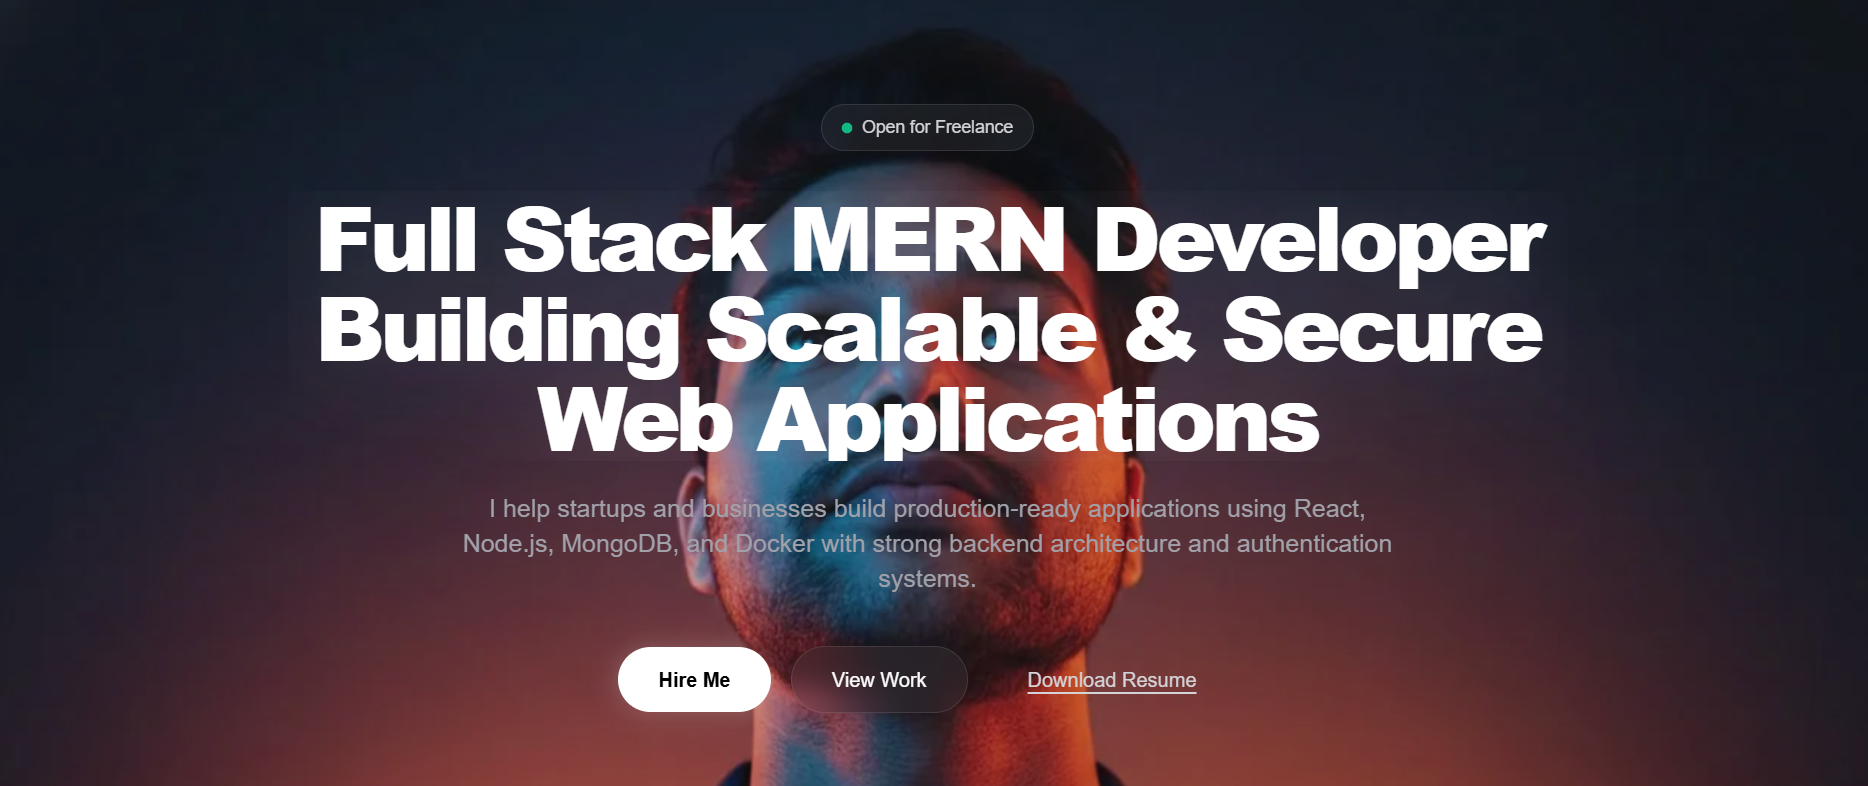
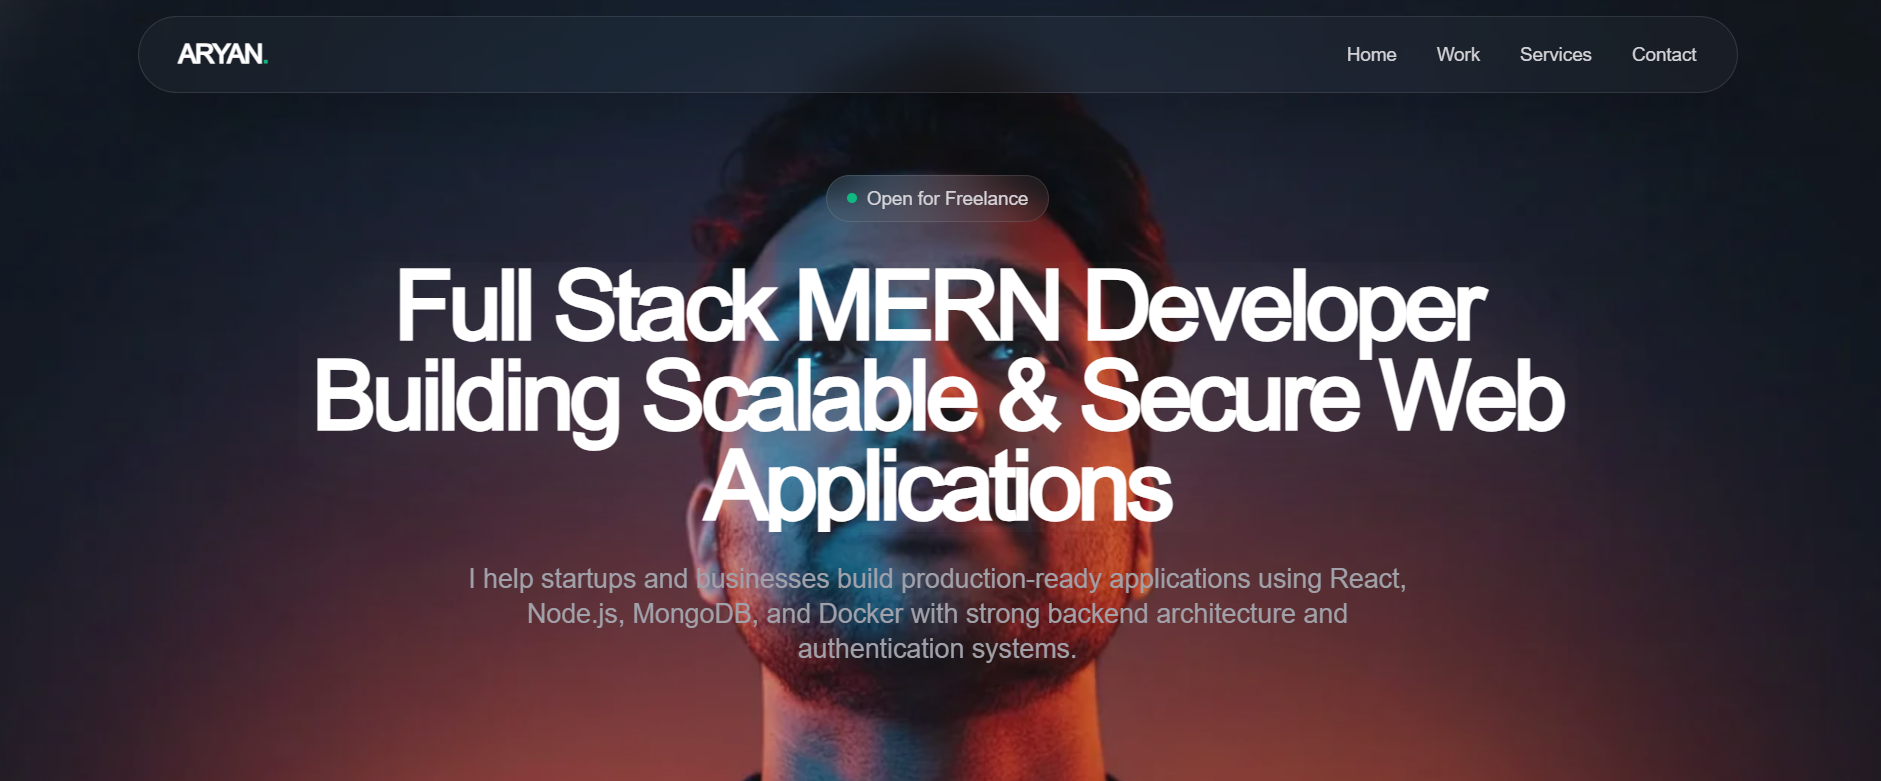
fix issues for deployment

diff --git a/src/components/Navbar.tsx b/src/components/Navbar.tsx
@@ -1,0 +1,42 @@
+"use client";
+
+import { motion } from "framer-motion";
+
+export default function Navbar() {
+    return (
+        <motion.nav
+            initial={{ y: -100, opacity: 0 }}
+            animate={{ y: 0, opacity: 1 }}
+            transition={{ duration: 0.8, ease: [0.16, 1, 0.3, 1] }}
+            className="fixed top-0 left-0 w-full z-50 px-6 py-6"
+        >
+            <div className="max-w-7xl mx-auto flex items-center justify-between bg-white/[0.03] backdrop-blur-lg border border-white/10 px-8 py-4 rounded-full shadow-2xl">
+                <div className="text-white font-bold text-xl tracking-tighter">
+                    ARYAN<span className="text-emerald-500">.</span>
+                </div>
+
+                <div className="hidden md:flex items-center gap-8 text-sm font-medium text-zinc-300">
+                    <button onClick={() => window.scrollTo({ top: 0, behavior: "smooth" })} className="hover:text-white transition-colors">
+                        Home
+                    </button>
+                    <button onClick={() => document.getElementById('work-section')?.scrollIntoView({ behavior: 'smooth' })} className="hover:text-white transition-colors">
+                        Work
+                    </button>
+                    <button onClick={() => document.getElementById('services-section')?.scrollIntoView({ behavior: 'smooth' })} className="hover:text-white transition-colors">
+                        Services
+                    </button>
+                    <button onClick={() => document.getElementById('contact-section')?.scrollIntoView({ behavior: 'smooth' })} className="hover:text-emerald-400 transition-colors">
+                        Contact
+                    </button>
+                </div>
+
+                <button
+                    onClick={() => document.getElementById('contact-section')?.scrollIntoView({ behavior: 'smooth' })}
+                    className="md:hidden px-5 py-2.5 rounded-full bg-white/10 text-white font-medium text-sm backdrop-blur-md border border-white/10 hover:bg-white/20 transition-colors"
+                >
+                    Let's Talk
+                </button>
+            </div>
+        </motion.nav>
+    );
+}

diff --git a/src/components/Overlay.tsx b/src/components/Overlay.tsx
@@ -67,22 +67,7 @@ export default function Overlay() {
                         I help startups and businesses build production-ready applications using React, Node.js, MongoDB, and Docker with strong backend architecture and authentication systems.
                     </motion.p>
 
-                    <motion.div
-                        initial={{ opacity: 0, y: 20 }}
-                        animate={{ opacity: 1, y: 0 }}
-                        transition={{ duration: 1, delay: 0.8 }}
-                        className="flex flex-wrap items-center justify-center gap-4 mt-10"
-                    >
-                        <button className="px-8 py-3.5 rounded-full bg-white text-black font-semibold hover:bg-zinc-200 transition-colors shadow-[0_0_20px_rgba(255,255,255,0.2)] hover:scale-105 active:scale-95 duration-200">
-                            Hire Me
-                        </button>
-                        <button className="px-8 py-3.5 rounded-full bg-white/5 text-white font-medium hover:bg-white/10 backdrop-blur-md border border-white/10 transition-colors hover:scale-105 active:scale-95 duration-200">
-                            View Work
-                        </button>
-                        <button className="px-8 py-3.5 rounded-full bg-transparent text-zinc-300 font-medium hover:text-white underline underline-offset-4 transition-colors">
-                            Download Resume
-                        </button>
-                    </motion.div>
+
                 </motion.div>
 
                 {/* Section 2 */}

diff --git a/src/app/layout.tsx b/src/app/layout.tsx
@@ -1,21 +1,12 @@
 import type { Metadata } from "next";
-import localFont from "next/font/local";
+import { Inter } from "next/font/google";
 import "./globals.css";
 
-const geistSans = localFont({
-  src: "./fonts/GeistVF.woff",
-  variable: "--font-geist-sans",
-  weight: "100 900",
-});
-const geistMono = localFont({
-  src: "./fonts/GeistMonoVF.woff",
-  variable: "--font-geist-mono",
-  weight: "100 900",
-});
+const inter = Inter({ subsets: ["latin"] });
 
 export const metadata: Metadata = {
-  title: "Create Next App",
-  description: "Generated by create next app",
+  title: "Aryan Raghav | Full Stack Developer",
+  description: "Professional portfolio of Aryan Raghav, showcasing high-performance web applications built with the MERN stack.",
 };
 
 export default function RootLayout({
@@ -26,7 +17,7 @@ export default function RootLayout({
   return (
     <html lang="en">
       <body
-        className={`${geistSans.variable} ${geistMono.variable} antialiased`}
+        className={`${inter.className} antialiased`}
       >
         {children}
       </body>

diff --git a/src/components/Contact.tsx b/src/components/Contact.tsx
@@ -4,7 +4,7 @@ import { Mail, Linkedin, Github as GithubIcon, MessageCircle } from "lucide-reac
 
 export default function Contact() {
     return (
-        <section className="bg-[#0a0a0a] py-32 px-4 md:px-24 border-t border-white/5 relative z-20 pb-48">
+        <section id="contact-section" className="bg-[#0a0a0a] py-32 px-4 md:px-24 border-t border-white/5 relative z-20 pb-48">
             <div className="max-w-7xl mx-auto flex flex-col md:flex-row gap-16">
                 <div className="md:w-1/2">
                     <h2 className="text-5xl md:text-7xl font-bold tracking-tighter text-white leading-[1.1]">Let's Talk.</h2>

diff --git a/src/app/page.tsx b/src/app/page.tsx
@@ -5,10 +5,13 @@ import Services from "@/components/Services";
 import WhyMe from "@/components/WhyMe";
 import Contact from "@/components/Contact";
 import Footer from "@/components/Footer";
+import Navbar from "@/components/Navbar";
 
 export default function Home() {
   return (
     <main className="bg-[#0a0a0a] min-h-screen w-full relative selection:bg-emerald-500/30">
+      <Navbar />
+
       <div className="relative">
         {/* The 500vh container handling the scroll scrub sequence */}
         <ScrollyCanvas />

diff --git a/src/components/Services.tsx b/src/components/Services.tsx
@@ -11,7 +11,7 @@ export default function Services() {
     ];
 
     return (
-        <section className="bg-[#0a0a0a] py-32 px-4 md:px-24 border-t border-white/5 relative z-20">
+        <section id="services-section" className="bg-[#0a0a0a] py-32 px-4 md:px-24 border-t border-white/5 relative z-20">
             <div className="max-w-7xl mx-auto">
                 <div className="mb-20 max-w-2xl">
                     <h2 className="text-5xl md:text-7xl font-bold tracking-tighter text-white leading-[1.1]">

diff --git a/src/components/Projects.tsx b/src/components/Projects.tsx
@@ -33,7 +33,7 @@ export default function Projects() {
     ];
 
     return (
-        <section className="min-h-screen bg-[#0a0a0a] py-32 px-4 md:px-24 border-t border-white/5 relative z-20">
+        <section id="work-section" className="min-h-screen bg-[#0a0a0a] py-32 px-4 md:px-24 border-t border-white/5 relative z-20">
             <div className="max-w-7xl mx-auto">
                 <div className="flex flex-col md:flex-row md:items-end justify-between mb-20 gap-8">
                     <div>
